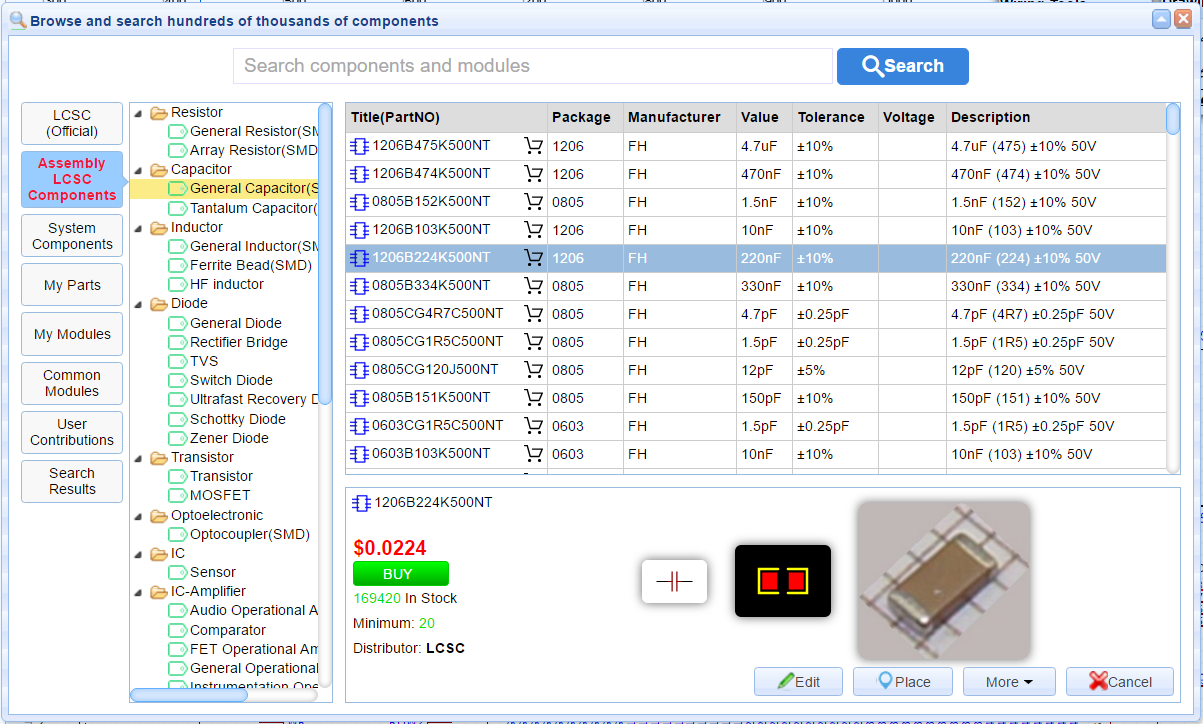
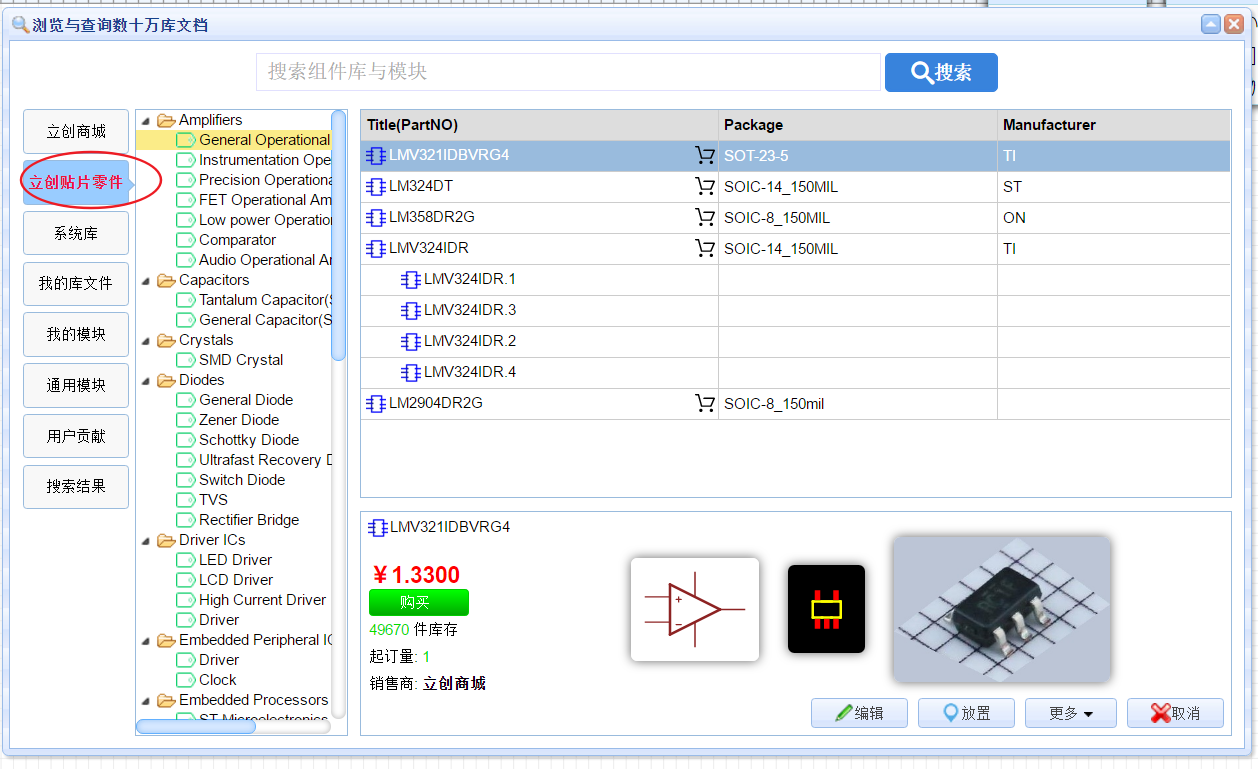
更新更新说明

diff --git a/Tutorial_Chinese/WhatsNew.md b/Tutorial_Chinese/WhatsNew.md
@@ -1,54 +1,44 @@
 
-# What is new in V4.8.5 
- 
-LCEDA has lots of new features in the version v4.8.5.  
-Try it via [https://lceda.cn/editor](https://lceda.cn/editor).
-
-## Demo Video
+# 演示视频
 
 <iframe frameborder="0" width="906" height="610" src="https://v.qq.com/iframe/player.html?vid=r05228zg4fw&tiny=0&auto=0" allowfullscreen></iframe>
 
 
-## Desktop Version 
+# 更新说明—v4.8.5版
+ 
+LCEDA/立创EDA在v4.8.5版添加了很多新特性.  
+请前往编辑器体验：[https://lceda.cn/editor](https://lceda.cn/editor).
 
-We are glad to tell you that we are providing desktop version now. In desktop version you can keep your design at local.   
-The more information and download, Please refer to [https://lceda.cn/page/download](https://lceda.cn/page/download)  
 
-![](images/285_Introduction_DesktopVersion.png)
+## 桌面客户端下载
 
-## Documents Tab Switch
+我们已经提供桌面客户端下载，下载地址： [https://lceda.cn/page/download](https://lceda.cn/page/download)  
+**请注意：**若网页版和客户端几乎同时进行修改保存时，客户端会出现感叹号提示同步冲突，此时你需选择所需的对应版本（Use Cloud，使用云端版本；Use Local，使用本地版本），否则在客户端的修改将不会被同步至服务器，且gerber导出也不会应用客户端最新的PCB。
+
+![](images/283_Introduction_DesktopVersionSyncConflict.png)
+
+## 文件标签切换
 
 It's easy to fit your documents tab location.  
 ![](images/279_Introduction_EditorTabSwitch.gif)
 
-## Protractor
+## 量角器
 
 We add a protractor for PCB tools.  
 ![](images/280_PCB_PCBTools_Protractor.gif)
 
-## Footprint Manager Enhanced
+## 封装管理器功能增强
 
 1.Footprint manager will check your part's package correct or not automatically.  If the part without the package or this package doesn't exist in EasyEDA Libraries, or if the part's Pins doesn't correspond the package's Pads correctly, the footprint manager will show the red alert.   
 Notice：If your schematic have many different packages, the footprint manager will take a few seconds to the check the packages.  
 2.In the preview area, you can zoom in, zoom out and pan with mouse.  
 ![](images/281_Schematic_FootprintManagerEnhance.png)
 
-## LCSC Assembly Components
+## 新增立创贴片零件库
 
-We add an LCSC Assembly Components option of the Parts, It's easy to choose which component can be assembled by LCSC.   
-Yes, We will provide the assembly service at end of this year.
+我们新增了一个立创可贴片零件库，这个库属于立创商城库的子集，可方便使用立创贴片服务的用户选料，里面包含了690种零件，数量在不断增加中。预计今年年底就可以提供贴片服务，敬请期待。
+
 ![](images/282_Schematic_Parts_AssemblyComponents.png)
-
-## Buy Components From LCSC More Easily
-
-We change the BOM export location in at LCSC.
-![](images/284_Export_BOM_ExportBOMDailog.png)  
-
-When you click "Export BOM at LCSC", we will help you to list all the components of your BOM,  and you just need to put them to the cart and check out.  
-
-![](images/283_Export_BOM_ExportFromLCSC.png)
-And Click the "BOM" button to download the BOM file.
-
 
 
 
